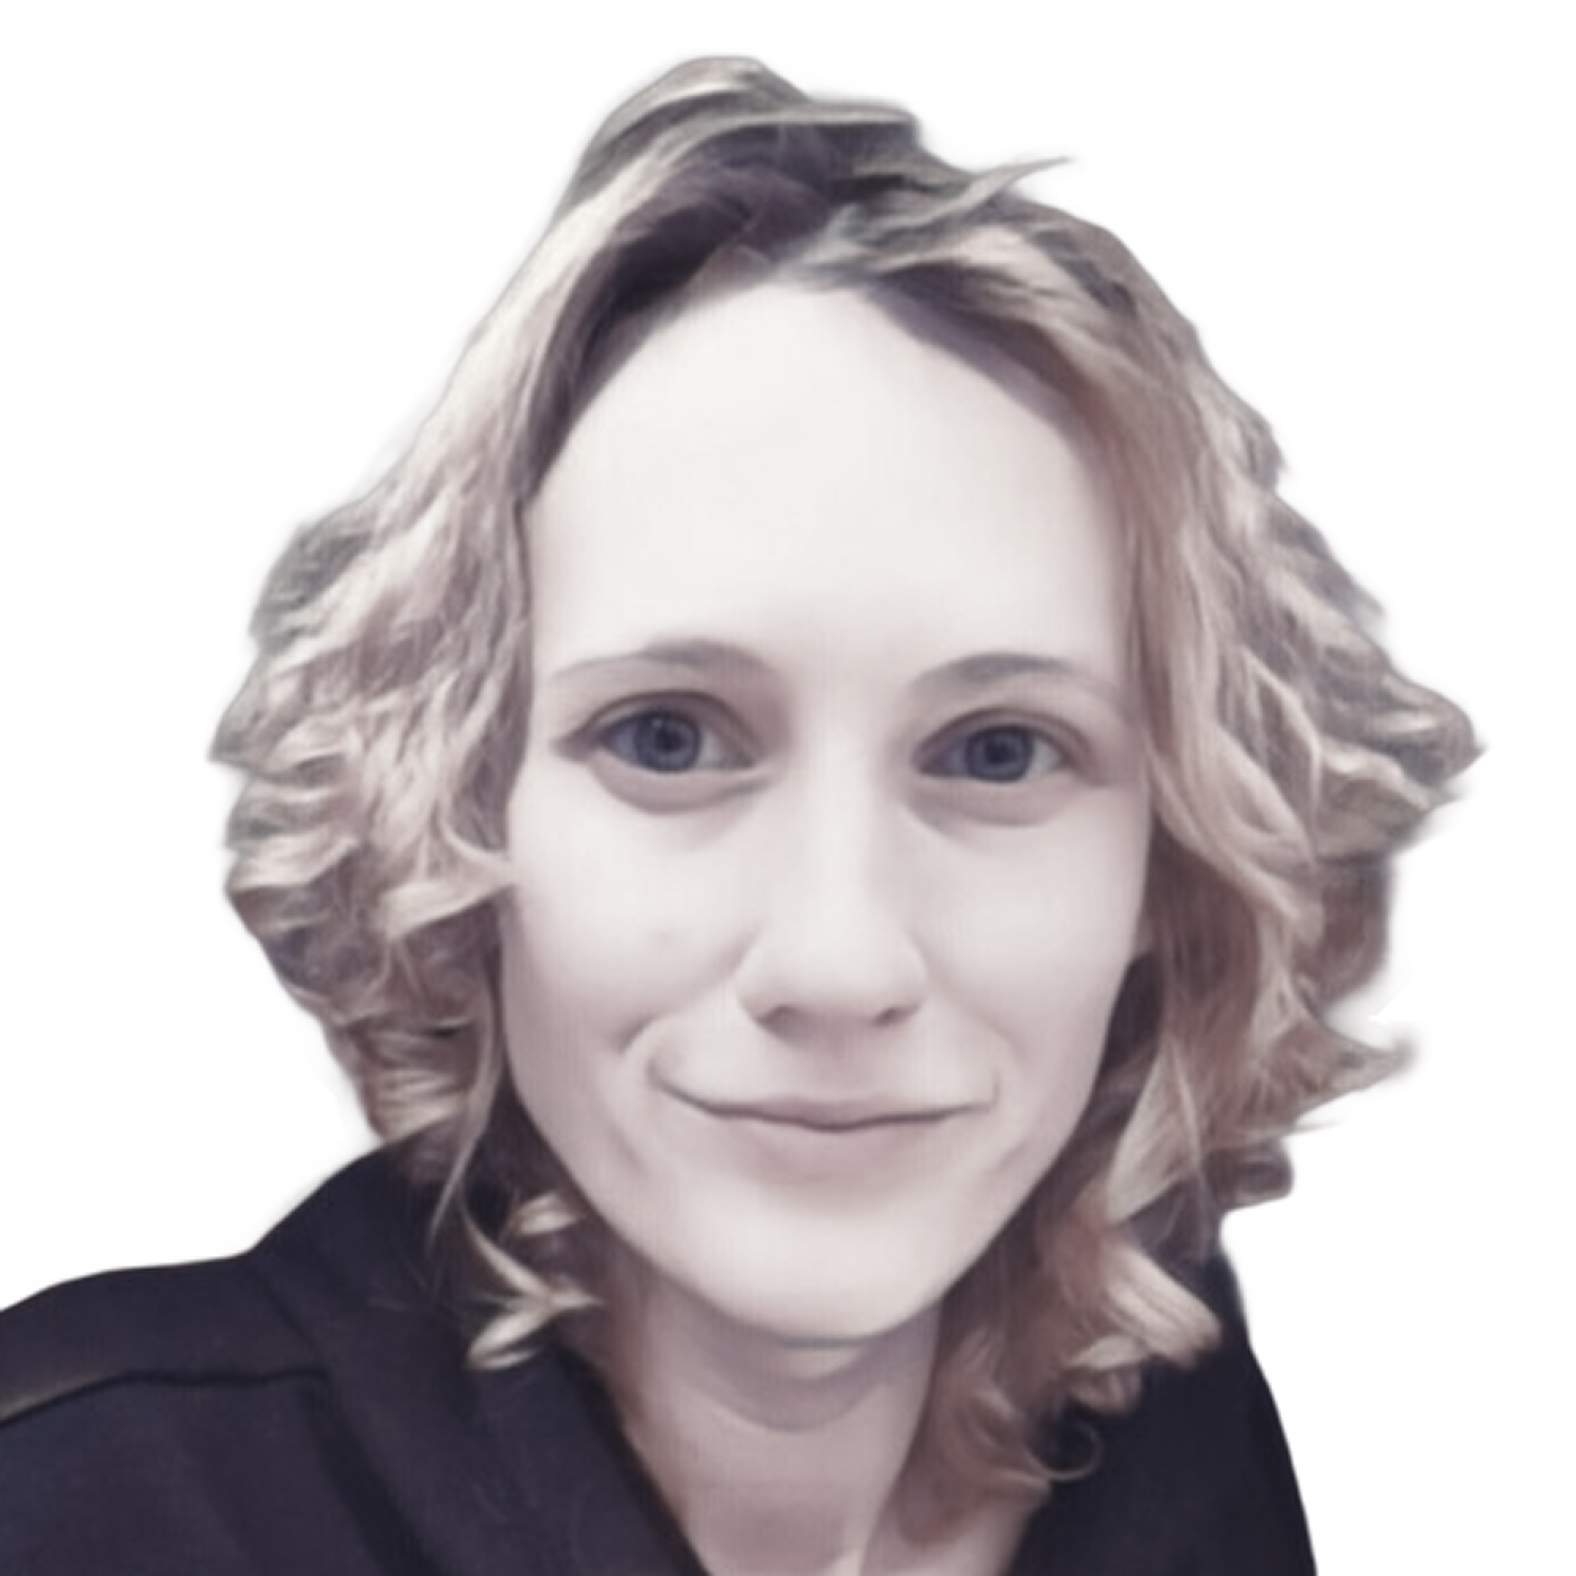
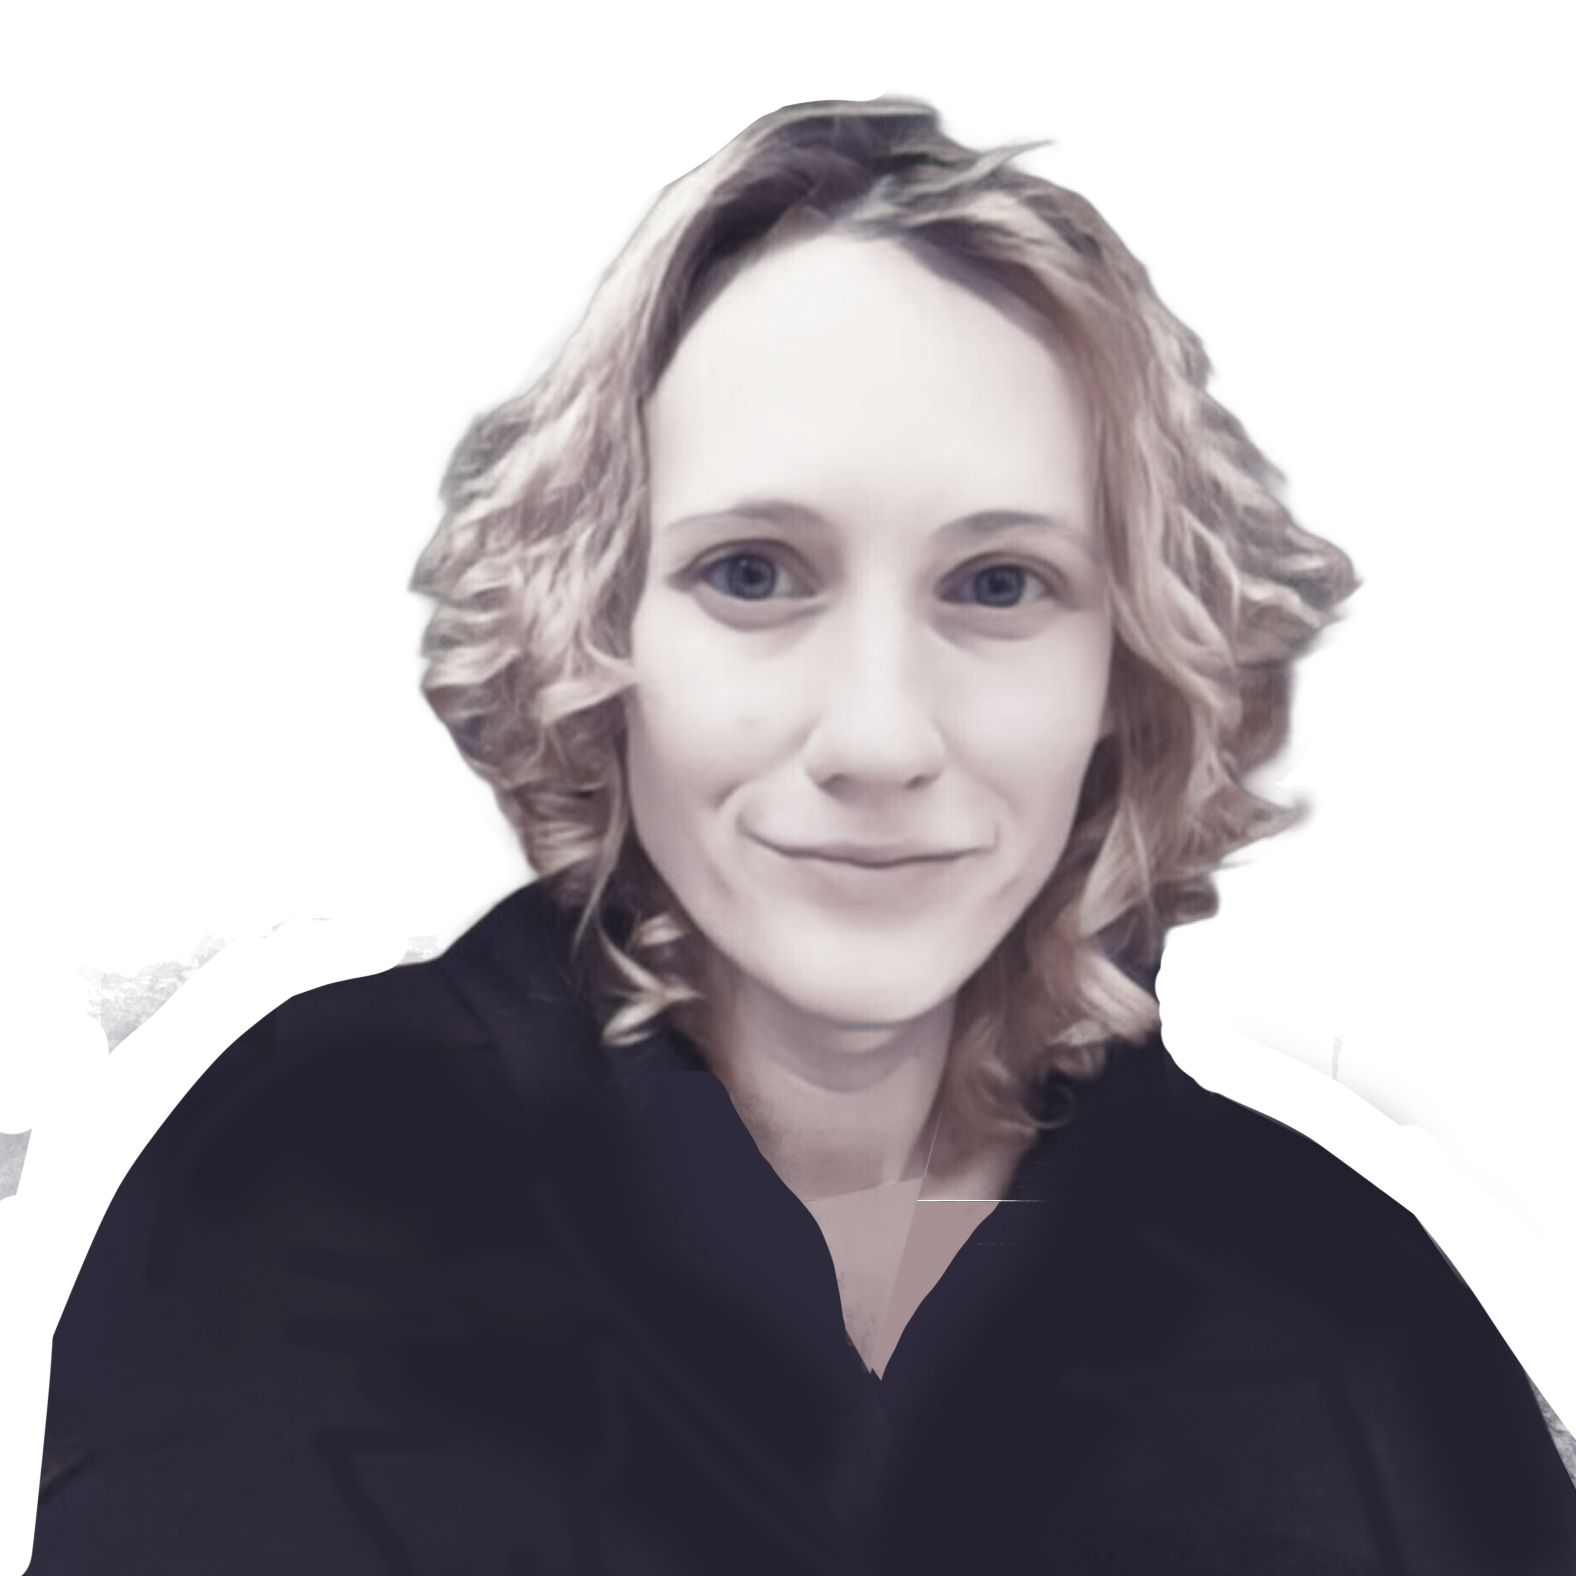
add connis parts

diff --git a/src/pages/website/About.jsx b/src/pages/website/About.jsx
@@ -1,14 +1,14 @@
-import { AIThinking, Prism, ProfileCard } from "../../components";
-import { Badge } from "../../components/ui/Badge";
-import { useRef } from "react";
+import { AIThinking, Prism, ProfileCard } from '../../components';
+import { Badge } from '../../components/ui/Badge';
+import { useRef } from 'react';
 
 const About = () => {
   const teamSectionRef = useRef(null);
 
   const scrollToTeam = () => {
     teamSectionRef.current?.scrollIntoView({
-      behavior: "smooth",
-      block: "start",
+      behavior: 'smooth',
+      block: 'start',
     });
   };
   return (
@@ -69,7 +69,7 @@ const About = () => {
               fill="none"
               className="text-white/60 group-hover:text-white transition-all duration-300 animate-pulse"
               style={{
-                animation: "slideInOut 2s ease-in-out infinite",
+                animation: 'slideInOut 2s ease-in-out infinite',
               }}
             >
               <path
@@ -117,7 +117,7 @@ const About = () => {
               showUserInfo={true}
               enableTilt={false}
               enableMobileTilt={false}
-              onContactClick={() => console.log("Contact Param clicked")}
+              onContactClick={() => console.log('Contact Param clicked')}
             />
 
             <ProfileCard
@@ -127,10 +127,12 @@ const About = () => {
               status="Online"
               contactText="Contact Me"
               avatarUrl="Cornelia.png"
+              className="bg-fit
+              "
               showUserInfo={true}
               enableTilt={false}
               enableMobileTilt={false}
-              onContactClick={() => console.log("Contact Cornelia clicked")}
+              onContactClick={() => console.log('Contact Cornelia clicked')}
             />
 
             <ProfileCard
@@ -143,7 +145,7 @@ const About = () => {
               showUserInfo={true}
               enableTilt={false}
               enableMobileTilt={false}
-              onContactClick={() => console.log("Contact Ciro clicked")}
+              onContactClick={() => console.log('Contact Ciro clicked')}
             />
           </div>
         </div>

diff --git a/src/components/AppExplain.jsx b/src/components/AppExplain.jsx
@@ -12,7 +12,7 @@ export function AppExplain() {
   return (
     <div className="bg-white">
       <section className="bg-[#6642b3] to-[#6642b3] min-fit flex-col justify-around items-center text-white/80 px-16 lg:py-20">
-        <div className=" flex flex-col gap-8 text-center lg:flex lg:flex-row lg:justify-between lg:px-40 lg:gap-2">
+        <div className=" flex flex-col gap-8 text-center xl:flex xl:flex-row xl:justify-between lg:px-40 lg:gap-2">
           <div className="flex flex-col text-center gap-8 justify-between items-center lg:text-left lg:justify-center lg:items-start lg:gap-8 lg:min-w-[50%]">
             <p className="mt-8 lg:mt-0 lg:text-lg ">What is Balance?</p>
             <h1 className="lg:!text-7xl">
@@ -49,7 +49,7 @@ export function AppExplain() {
           </div>
           <img
             src="/irefusetocodethis.png"
-            className="mb-8 relative right-7 lg:overflow-hidden"
+            className="mb-8 relative xl:right-7 lg:overflow-hidden object-contain"
           ></img>
         </div>
       </section>
